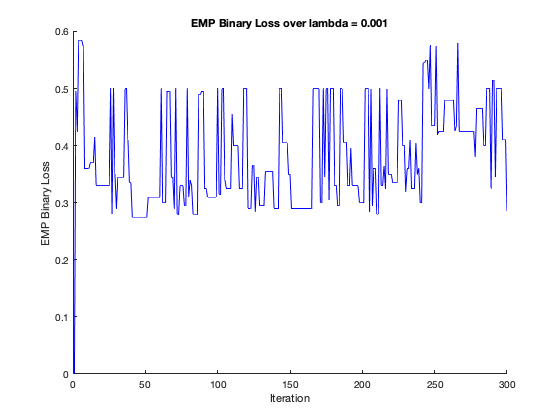
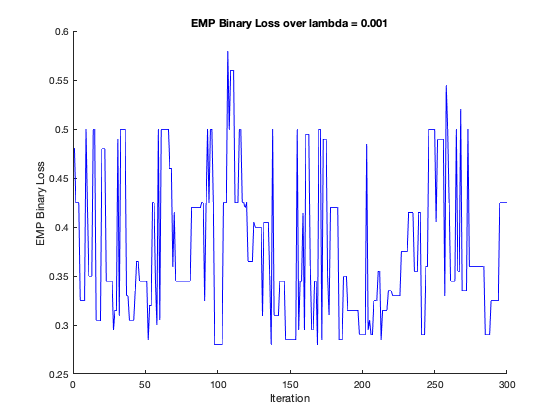
commit assi2-q3-ef

diff --git a/assignment2/main.m b/assignment2/main.m
@@ -17,9 +17,15 @@ clc;clear;close all;
 % and print empiral hinge loss and empiral binary loss
 % clc;clear;close all;
 % dataset = load_data("bg.txt");
+% 
+% % add bias
+% [N,C] = size(dataset);
+% bias = ones(N,1);
+% dataset = [dataset(:,1:C-1) bias dataset(:,C)];
+% 
 % num_updates = 300;
 % s_lambda = [100, 10, 1, .1, .01, .001];
-% n = 0;
+% n = 20;
 % 
 % for i = 1:length(s_lambda)
 %     [w,hi_loss,bi_loss] = soft_svm(dataset, num_updates, s_lambda(i), n);
@@ -52,28 +58,38 @@ clc;clear;close all;
 
 % load the dataset and spilt
 D = load('seeds_dataset.txt');
+% + bias
 [N,C] = size(D);
-[D_1, D_2, D_3] = spiltDateset(D);
-num_updates = 6000;
+bias = ones(N,1);
+D = [D(:,1:C-1) bias D(:,C)];
+
+[N,C] = size(D);
+[D_1, D_2, D_3] = spiltDateset(D); % split and add bias cloumn
+num_updates = 5000;
 lambda = 0.01;
 n = 1;
 binary_losses=zeros(3,1);
-ws = zeros(3,C-1);
+% ws = zeros(3,C-1);
+ws = zeros(3,C-1); % + bias
+
+
 min_loss = N;
+min_ws_loss = zeros(3,1);
 
 
-for i = 1:30
+for i = 1:50
     
-    [w_1,hi_loss_1,bi_loss_1] = soft_svm(D_1, num_updates, lambda, n);
-%     binary_losses(1) = emp_loss(w_1, D_1, 'binary');
+    [w_1,~,bi_loss_1] = soft_svm(D_1, num_updates, lambda, n);
+    binary_losses(1) = emp_loss(w_1, D_1, 'binary');
     ws(1,:) = w_1;
-    [w_2,hi_loss_2,bi_loss_2] = soft_svm(D_2, num_updates, lambda, n);
-%     binary_losses(2) = emp_loss(w_2, D_2, 'binary');
-    ws(2,:) = w_2;
-    [w_3,hi_loss_3,bi_loss_3] = soft_svm(D_3, num_updates, lambda, n);
-%     binary_losses(3) = emp_loss(w_3, D_3, 'binary');
-    ws(3,:) = w_3;
     
+    [w_2,~,bi_loss_2] = soft_svm(D_2, num_updates, lambda, n);
+    binary_losses(2) = emp_loss(w_2, D_2, 'binary');
+    ws(2,:) = w_2;
+    
+    [w_3,~,bi_loss_3] = soft_svm(D_3, num_updates, lambda, n);
+    binary_losses(3) = emp_loss(w_3, D_3, 'binary');
+    ws(3,:) = w_3;
     
     DR = D(:,C);
     for j = 1:N
@@ -87,6 +103,7 @@ for i = 1:30
     
     if (loss < min_loss)
         min_loss = loss;
+        min_ws_loss = binary_losses;
         opt_DR = DR;
         opt_ws = ws;
     end
@@ -95,7 +112,7 @@ for i = 1:30
     
     
 end
-    
-min_loss
+min_loss    
+min_loss/N
 
 

diff --git a/assignment2/spiltDateset.m b/assignment2/spiltDateset.m
@@ -1,14 +1,28 @@
  function [D_1, D_2, D_3] = spiltDateset(D)
  
+% % each spilt D into two part {-1,1}
+% D_1 = D;
+% D_1(D(:,8)==1, 8) = 1;
+% D_1(D(:,8)~=1, 8) = -1;
+% 
+% D_2 = D;
+% D_2(D(:,8)==2, 8) = 1;
+% D_2(D(:,8)~=2, 8) = -1;
+% 
+% D_3 = D;
+% D_3(D(:,8)==3, 8) = 1;
+% D_3(D(:,8)~=3, 8) = -1;  
+[~,C] = size(D);
+
 % each spilt D into two part {-1,1}
 D_1 = D;
-D_1(D(:,8)==1, 8) = 1;
-D_1(D(:,8)~=1, 8) = -1;
+D_1(D(:,C)==1, C) = 1;
+D_1(D(:,C)~=1, C) = -1;
 
 D_2 = D;
-D_2(D(:,8)==2, 8) = 1;
-D_2(D(:,8)~=2, 8) = -1;
+D_2(D(:,C)==2, C) = 1;
+D_2(D(:,C)~=2, C) = -1;
 
 D_3 = D;
-D_3(D(:,8)==3, 8) = 1;
-D_3(D(:,8)~=3, 8) = -1;    
+D_3(D(:,C)==3, C) = 1;
+D_3(D(:,C)~=3, C) = -1;  

diff --git a/assignment2/soft_svm.m b/assignment2/soft_svm.m
@@ -52,4 +52,5 @@ end
 
 
 k=find(bi_loss==min(bi_loss));
+
 w=ws(k(1),:);

diff --git a/assi2/assig2.md b/assi2/assig2.md
@@ -138,12 +138,14 @@ We know that empirical logistic loss over a dataset
   - Similar :
     - The part (b) algrothim and we derived for SVM all use the gradient descent method to update and find the optimal $\pmb{w}$ so that minimize the loss.
     - Both algorithms would sample a data point $(\pmb{w}_i, t_i)$ uniformly at the random from dataset D to compute the gradient to update
+    - Both of them are convex optimal problems
     - Both algorithms compute the average $\pmb{w}$ of last $n$ iterations.
-  -  Different:
-    - part (b) use fixed stepsize $\eta$, SVM we derived use stepsize sequence $\eta * j = {1\over \lambda *j}$ where $j$ is current step number. It means in SVM, the stepsize would less and less in each step, it would more accuracy to be closed minimum. 
-    - Part(b) compute the gradient and SVM compute a subgradient only with respect to one points which can speed up the convergence of SGD
-    - Part(b) consider the gradient of logistic loss, but SVM consider the gradient of hinge loss.The logistic loss would close to 0, but never be 0; the hinge loss would be 0 if $t_i<\pmb{w},x_i>\ > 1$ ; The gradient of hinge loss function is a piecewise-defined function, but the gradient of logistic loss is comtinuous.
-  - The hinge loss would handle the data where are not differentiable. but logistic loss 
+  - Different:
+    - part (b) use fixed stepsize $\eta$, SVM we derived use stepsize sequence $\eta * j = {1\over \lambda *j}$ where $j$ is current step number. It means in SVM, the stepsize would less and less in each step, it would more accuracy to be closed minimum. 
+    - Part(b) consider the gradient of logistic loss, but SVM consider the gradient of hinge loss.The logistic loss would close to 0, but never be 0; the hinge loss would be 0 if $t_i<\pmb{w},x_i>\ > 1$ , it means that the suport vectors would determine the $\pmb{w}$, but Part(b) algrothm points which classify correctlly also effect the $\pmb{w}$. 
+    - soft SVM allows sparse support vectors.
+    - The gradient of hinge loss function is a piecewise-defined function, but the gradient of logistic loss is comtinuous.
+  - The hinge loss would handle the data 
 
 
 
@@ -165,6 +167,7 @@ We know that empirical logistic loss over a dataset
 
 ```matlab
 function [w, hi_loss, bi_loss] = soft_svm(D,T,lambda, n)
+function [w, hi_loss, bi_loss] = soft_svm(D,T,lambda, n)
 % Initialize
 [N, clo] = size(D);
 x = D(:,1:clo-1); % features
@@ -177,14 +180,9 @@ bi_loss = zeros(T,1);
 % store `w` in each iteration
 ws=zeros(T,clo-1);
 
-for j = 1:T
-    
-    % update `w`
-    w_j = (1/(j*lambda))*theta;
-    
-    % store the `w` in `ws`
-    ws(j,:) = w_j;
- 
+w_j = (1/(lambda))*theta; % w_0
+
+for j = 1:T 
     % Choose the i in uniform distribution
     i = unidrnd(N);
     
@@ -194,13 +192,19 @@ for j = 1:T
         
     end
     
+    % update `w`
+    w_j = (1/(j*lambda))*theta;
+    
+    % store the `w` in `ws`
+     ws(j,:) = w_j;
+    
     % Track the emprical and hinge loss
     hi_loss(j,:) = emp_loss(w_j, D, 'hinge');
     bi_loss(j,:) = emp_loss(w_j, D, 'binary');
 end
 
 if(n ~= 0)
-    w = (1/n) * sum(ws((T-n-1:T),:));
+    w = (1/n) * sum(ws((T-n:T),:));
 else
     w = w_j;
 end
@@ -236,6 +240,12 @@ emr_loss = (1/N) * l;
 % and print empiral hinge loss and empiral binary loss
 clc;clear;close all;
 dataset = load_data("bg.txt");
+
+% add bias
+[N,C] = size(dataset);
+bias = ones(N,1);
+dataset = [dataset(:,1:C-1) bias dataset(:,C)];
+
 num_updates = 300;
 s_lambda = [100, 10, 1, .1, .01, .001];
 n = 1;
@@ -261,17 +271,21 @@ for i = 1:length(s_lambda)
     ylabel('EMP Binary Loss');
     hold off
 end
+
+fprintf("part(b): Finished! Please press enter to continue!\n")
+pause;
+clc;close all;
 ```
 
 <img src="./figure/bi_100.png" style="zoom:50%"/>
 
-<img src="./figure/bi_0.1.png" style="zoom:50%"/>
+<img src="./figure/bi_1.png" style="zoom:50%"/>
 
 <img src="./figure/bi_0.001.png" style="zoom:100%"/>
 
 <img src="./figure/hi_100.png" style="zoom:50%"/>
 
-<img src="./figure/hi_0.1.png" style="zoom:100%"/>
+<img src="./figure/hi_1.png" style="zoom:50%"/>
 
 <img src="./figure/hi_0.001.png" style="zoom:100%"/>
 
@@ -280,20 +294,47 @@ end
 (c) Discuss the plots. Are the curves monotone? Are they approximately monotone? Why or why not? How does the choice of $\lambda$ affect the optimization? How would you go about finding a linear predictor of minimal binary loss?
 
 - Solve:
-  - No, the curves are not strictly monotone. Because in each iteration, the SoftSVM pick random data point to compute the subgradient, sometimes, it may pick a noice data point, the loss would larger than previous iteration; sometimes, it may pick a same point as previous iteration, the loss would be 0. Thus, it not monotone.
-  - Yes, they are approximately monotone. The trend of loss would montonely decreasing. Because SGD would always give the direction which decreasing fast. The loss would decrease globally.
-  - Because stepsize sequence $\eta^j = {1 \over \lambda*j}$ and the $\lambda$ is on the denominator, when $\lambda$ is larger, the stepsize would small, and multiply the iteration number, the stepsize would smaller and smaller, it would be easier to be close the minimum.
-  - 
+  - No, the curves are not strictly monotone. Because in each iteration, the SGD for SoftSVM pick random data point to compute the subgradient, sometimes, it may pick a noice data point, the loss would larger than previous iteration; sometimes, it may pick a same point as previous iteration, the loss would be 0. And the subgradient is not only in convex function, it means that each point may exist more than one subgradient, so the direction would not decreasing direction in the global. Also, the stepsize also woud effect. Thus, it not monotone.
+  - Yes, they are approximately monotone. The trend of loss would montonely decreasing. Because gradient  method would always give the direction which decreasing fast. The loss would decrease globally.
+  - Because stepsize sequence $\eta^j = {1 \over \lambda*j}$ and the $\lambda$ is on the denominator, when $\lambda$ is larger, the stepsize would small, and multiply the iteration number, the stepsize would smaller and smaller, it would close to the minimum slower, it may need more iteration. However, if $\lambda $ is very small, stepsize would very big initially, so it would overstep, it may just go across the optimal solution and increase the loss.
+  - To find a linear predictor of minimal binary loss, we need try and modify the several different $\lambda$, and track the emprical binary loss observe the loss changing depand on different $\lambda$ 
 
 
 
+(e-f) Multi-class predictor
+
+`spiltDateset.m`
+
+```matlab
+function [D_1, D_2, D_3] = spiltDateset(D)
+[~,C] = size(D);
+% each spilt D into two part {-1,1}
+D_1 = D;
+D_1(D(:,C)==1, C) = 1;
+D_1(D(:,C)~=1, C) = -1;
+
+D_2 = D;
+D_2(D(:,C)==2, C) = 1;
+D_2(D(:,C)~=2, C) = -1;
+
+D_3 = D;
+D_3(D(:,C)==3, C) = 1;
+D_3(D(:,C)~=3, C) = -1;
+```
 
 
 
+| w    |            |            |            |            |            |            |            |            |
+| ---- | ---------- | ---------- | ---------- | ---------- | ---------- | ---------- | ---------- | ---------- |
+| w_1  | -0.4269014 | 0.62115023 | 0.12736926 | 0.19812147 | 0.28680462 | -0.8243152 | -0.5039022 | 0.11556033 |
+| w_2  | 1.85794872 | -1.5517094 | -0.2692863 | -0.7176838 | -0.3159829 | 0.12165556 | -0.2358803 | -0.3162393 |
+| w_3  | -1.1240345 | 0.51829771 | 0.08630371 | 0.31245969 | -0.0117023 | 0.75864604 | 0.51615673 | 0.12748406 |
 
+|             | w_1        | w_2        | w_3        |
+| ----------- | ---------- | ---------- | ---------- |
+| Binary Loss | 0.15238095 | 0.04285714 | 0.03809524 |
 
-
-
+Mutlti-class error: 17
 
 
 
